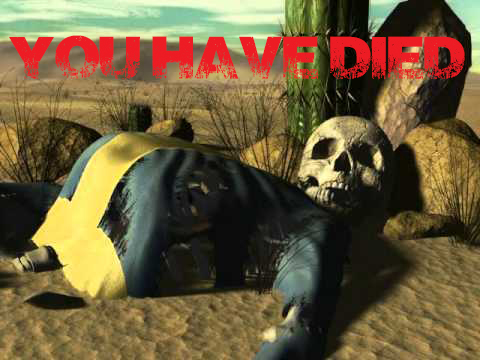
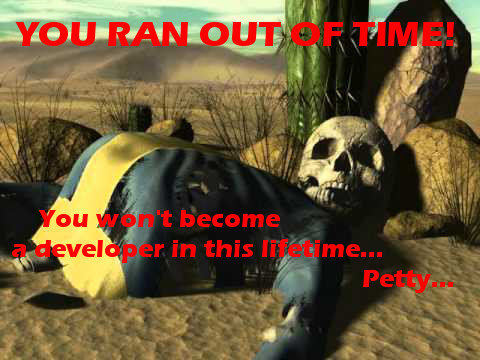
added new pictures, fixed bugs on the map, added minor changes in the code

Changed region(s): [[0.0, 0.0611, 0.9688, 0.2444], [0.0312, 0.5806, 0.9375, 0.825]]

diff --git a/TeamworkTAMBA/CombatForm.cs b/TeamworkTAMBA/CombatForm.cs
@@ -43,12 +43,12 @@ namespace TeamworkTAMBA
 
             labelPlayersTime.Text = "Time: " + player.Health;
             labelPlayerDmg.Text = "Damage: " + "1-" + player.AttackPower;
-            labelPlayerKnowlage.Text = "Knowlage: " + player.Knowledge;
-            labelEnemyHealth.Text = "Health: " + enemy.Health;
+            labelPlayerKnowlage.Text = "Knowledge: " + player.Knowledge;
+            labelEnemyHealth.Text = "Strength: " + enemy.Health;
             labelEnemyDmg.Text = "Damage: " + "1-" + enemy.AttackPower;
 
             playerMoneyLabel.Text = "Money: " + player.Money;
-            killsLabel.Text = "Kills: " + player.KillsCounter;
+            killsLabel.Text = "Solved: " + player.KillsCounter;
 
             //Disables the weapon checkboxes if still not taken from the teacher
             foreach (var weapon in this.player.Weapons)
@@ -85,7 +85,7 @@ namespace TeamworkTAMBA
             }
             else
             {
-                playerTextBox.Text = "You can not fight the Homeworks without programing skills!";
+                playerTextBox.Text = "You can not solve the Homeworks without programming skills! Learn some! Go and find a teacher!";
                 CSharpCheckBox.Checked = true;
             }
         }
@@ -96,13 +96,13 @@ namespace TeamworkTAMBA
             {
                 player.AttackPower += 10;
                 knowlageUsage += 10;
-                labelPlayerDmg.Text = "Damage: " + "1-" + player.AttackPower;
+                labelPlayerDmg.Text = "Part solved for: " + "1-" + player.AttackPower;
             }
             else
             {
                 player.AttackPower -= 10;
                 knowlageUsage -= 10;
-                labelPlayerDmg.Text = "Damage: " + "1-" + player.AttackPower;
+                labelPlayerDmg.Text = "Part solved for: " + "1-" + player.AttackPower;
             }
         }
 
@@ -113,13 +113,13 @@ namespace TeamworkTAMBA
             {
                 player.AttackPower += 10;
                 knowlageUsage += 1;
-                labelPlayerDmg.Text = "Damage: " + "1-" + player.AttackPower;
+                labelPlayerDmg.Text = "Part solved for: " + "1-" + player.AttackPower;
             }
             else
             {
                 player.AttackPower -= 10;
                 knowlageUsage -= 1;
-                labelPlayerDmg.Text = "Damage: " + "1-" + player.AttackPower;
+                labelPlayerDmg.Text = "Part solved for: " + "1-" + player.AttackPower;
             }
         }
 
@@ -129,13 +129,13 @@ namespace TeamworkTAMBA
             {
                 player.AttackPower += 10;
                 knowlageUsage += 1;
-                labelPlayerDmg.Text = "Damage: " + "1-" + player.AttackPower;
+                labelPlayerDmg.Text = "Part solved for: " + "1-" + player.AttackPower;
             }
             else
             {
                 player.AttackPower -= 10;
                 knowlageUsage -= 1;
-                labelPlayerDmg.Text = "Damage: " + "1-" + player.AttackPower;
+                labelPlayerDmg.Text = "Part solved for: " + "1-" + player.AttackPower;
             }
         }
 
@@ -145,13 +145,13 @@ namespace TeamworkTAMBA
             {
                 player.AttackPower += 10;
                 knowlageUsage += 1;
-                labelPlayerDmg.Text = "Damage: " + "1-" + player.AttackPower;
+                labelPlayerDmg.Text = "Part solved for: " + "1-" + player.AttackPower;
             }
             else
             {
                 player.AttackPower -= 10;
                 knowlageUsage -= 1;
-                labelPlayerDmg.Text = "Damage: " + "1-" + player.AttackPower;
+                labelPlayerDmg.Text = "Part solved for: " + "1-" + player.AttackPower;
             }
         }
 
@@ -161,13 +161,13 @@ namespace TeamworkTAMBA
             {
                 player.AttackPower += 10;
                 knowlageUsage += 1;
-                labelPlayerDmg.Text = "Damage: " + "1-" + player.AttackPower;
+                labelPlayerDmg.Text = "Part solved for: " + "1-" + player.AttackPower;
             }
             else
             {
                 player.AttackPower -= 10;
                 knowlageUsage -= 1;
-                labelPlayerDmg.Text = "Damage: " + "1-" + player.AttackPower;
+                labelPlayerDmg.Text = "Part solved for: " + "1-" + player.AttackPower;
             }
         }
 
@@ -196,7 +196,7 @@ namespace TeamworkTAMBA
                     phpCheckBox.Checked = true;
                 }
 
-                labelPlayerDmg.Text = "Damage: " + "1-" + player.AttackPower;
+                labelPlayerDmg.Text = "Part solved for: " + "1-" + player.AttackPower;
             }
             else
             {
@@ -205,7 +205,7 @@ namespace TeamworkTAMBA
                 cssCheckBox.Checked = false;
                 javascriptCheckBox.Checked = false;
                 phpCheckBox.Checked = false;
-                labelPlayerDmg.Text = "Damage: " + "1-" + player.AttackPower;
+                labelPlayerDmg.Text = "Part solved for: " + "1-" + player.AttackPower;
             }
         }
 
@@ -222,7 +222,7 @@ namespace TeamworkTAMBA
             {
                 if (knowlageUsage > player.Knowledge)
                 {
-                    playerTextBox.Text = "Not enought Knowledge";
+                    playerTextBox.Text = "You don't have enough knowledge!";
                     checkAllBox.Checked = false;
                     javaCheckBox.Checked = false;
                     htmlCheckBox.Checked = false;
@@ -240,8 +240,8 @@ namespace TeamworkTAMBA
                 {
                     Combat();
                     labelPlayersTime.Text = "Time: " + player.Health;
-                    labelEnemyHealth.Text = "Health: " + enemy.Health;
-                    labelPlayerKnowlage.Text = "Knowlage: " + player.Knowledge;
+                    labelEnemyHealth.Text = "Strength: " + enemy.Health;
+                    labelPlayerKnowlage.Text = "Knowledge: " + player.Knowledge;
                 }
             }
 
@@ -277,16 +277,16 @@ namespace TeamworkTAMBA
             if (enemy.Health > 0)
             {
                 enemyHealthProgressBar.Value = newEnemyHealth;
-                playerTextBox.Text = "You have hit the Homework for " + playerRandomDamage + "\nThe Homework now have " + enemy.Health + " health.";
+                playerTextBox.Text = "You have solved a part of the Homework for " + playerRandomDamage + "\nThe Homework now has " + enemy.Health + " strength.";
             }
             else
             {
                 enemyHealthProgressBar.Value = enemyHealthProgressBar.Minimum;
                 isEnemyAlive = false;
-                playerTextBox.Text = "You have hit the Homework for " + playerRandomDamage + "\nThe Homework is dead!";
+                playerTextBox.Text = "You have solved a part of the Homework for " + playerRandomDamage + "\nThe Homework is solved!";
                 player.Health = newPlayerHealth;
                 player.KillsCounter++;
-                killsLabel.Text = "Kills: " + player.KillsCounter;
+                killsLabel.Text = "Solved: " + player.KillsCounter;
                 player.Money += 10;
                 playerMoneyLabel.Text = "Money: " + player.Money;
 
@@ -296,15 +296,15 @@ namespace TeamworkTAMBA
             if (player.Health > 0)
             {
                 playerHealthProgressBar.Value = newPlayerHealth;
-                EnemyTextBox.Text = "But the Homework hit you back for " + enemyRandomDamage +
-                    "\nYou have now " + player.Health + " health";
+                EnemyTextBox.Text = "But that took you some time - exactly : " + enemyRandomDamage +
+                    "\nYou have now " + player.Health + " time left.";
             }
             else
             {
                 playerHealthProgressBar.Value = playerHealthProgressBar.Minimum;
                 isPlayerAlive = false;
-                EnemyTextBox.Text = "The Homework hit you back for " + enemyRandomDamage +
-                                    "\nYou were killed form a Homework.. You sux!";
+                EnemyTextBox.Text = "The Homework took from you " + enemyRandomDamage +
+                                    "\nThe Homework took all your health and you are DONE... You suck!!! You are no good for a developer!";
                 exit.Visible = true;
             }
         }

diff --git a/TeamworkTAMBA/DrawEngine.cs b/TeamworkTAMBA/DrawEngine.cs
@@ -11,26 +11,28 @@
     public class DrawEngine
     {
         private const string Player = "../../Graphics/player.png";
-        private const string Enemy = "../../Graphics/monster.jpg";
+        //private const string Enemy = "../../Graphics/monster.jpg";
         private const string Homework = "../../Graphics/homework.png";
-        private const string Exam = "../../Graphics/exam.jpg";
-        private const string Teamwork = "../../Graphics/teamwork.jpg";
-        private const string Didko = "../../Graphics/dido.jpg";
-        private const string Nakov = "../../Graphics/player.png"; //TO DO: have to be change
-        private const string Nasko = "../../Graphics/nasko.jpg";
-        private const string SuperVlado = "../../Graphics/superVlado.jpg";
-        private const string Tedi = "../../Graphics/tedi.jpg";
+        private const string Exam = "../../Graphics/exam.png";
+        private const string Teamwork = "../../Graphics/teamwork.png";
+        private const string Didko = "../../Graphics/dido.png";
+        private const string Nakov = "../../Graphics/nakov.png";
+        private const string Nasko = "../../Graphics/nasko.png";
+        private const string SuperVlado = "../../Graphics/superVlado.png";
+        private const string Tedi = "../../Graphics/tedi.png";
         private const string Vlado = "../../Graphics/vlado.png";
         private const string Wall = "../../Graphics/wall.jpg";
+        private const string Railing = "../../Graphics/railing.png";
         private const string Coffee = "../../Graphics/coffee.png";
         private const string Floor = "../../Graphics/floor.jpg";
+        private const string Gate = "../../Graphics/gate.png";
         private const string Desk = "../../Graphics/desk.png";
         private const string Air = "../../Graphics/air.png";
-        private const string Time = "../../Graphics/Time.jpg";
+        private const string Time = "../../Graphics/time.png";
 
 
         Image playerSpr, enemySpr, homeworkSpr, examSpr, teamworkSpr, didkoSpr, nakovSpr, naskoSpr, superVladoSpr, tediSpr,
-        vladoSpr, wallSpr, coffeeSpr, floorSpr, deskSpr, airSpr, timeSpr;
+        vladoSpr, wallSpr, railingSpr, coffeeSpr, floorSpr, gateSpr, deskSpr, airSpr, timeSpr;
 
 
         private Graphics device;
@@ -132,9 +134,13 @@
                     break;
                 case SpriteType.Wall: image = this.wallSpr;
                     break;
+                case SpriteType.Railing: image = this.railingSpr;
+                    break;
                 case SpriteType.Coffee: image = this.coffeeSpr;
                     break;
                 case SpriteType.Floor: image = this.floorSpr;
+                    break;
+                case SpriteType.Gate: image = this.gateSpr;
                     break;
                 case SpriteType.Desk: image = this.deskSpr;
                     break;
@@ -152,7 +158,7 @@
         public void LoadResources()
         {
             this.playerSpr = Image.FromFile(Player);
-            this.enemySpr = Image.FromFile(Enemy);
+            //this.enemySpr = Image.FromFile(Enemy);
             this.homeworkSpr = Image.FromFile(Homework);
             this.examSpr = Image.FromFile(Exam);
             this.teamworkSpr = Image.FromFile(Teamwork);
@@ -163,8 +169,10 @@
             this.tediSpr = Image.FromFile(Tedi);
             this.vladoSpr = Image.FromFile(Vlado);
             this.wallSpr = Image.FromFile(Wall);
+            this.railingSpr = Image.FromFile(Railing);
             this.coffeeSpr = Image.FromFile(Coffee);
             this.floorSpr = Image.FromFile(Floor);
+            this.gateSpr = Image.FromFile(Gate);
             this.deskSpr = Image.FromFile(Desk);
             this.airSpr = Image.FromFile(Air);
             this.timeSpr = Image.FromFile(Time);

diff --git a/TeamworkTAMBA/Map.cs b/TeamworkTAMBA/Map.cs
@@ -89,10 +89,10 @@
                                     item = new Wall(SpriteType.Wall, itemlocation, 0);
                                     break;
                                 case "r":
-                                    item = new Wall(SpriteType.Wall, itemlocation, 0);
+                                    item = new Wall(SpriteType.Railing, itemlocation, 0);
                                     break;
                                 case "g":
-                                    item = new Floor(SpriteType.Floor, itemlocation, 0);
+                                    item = new Gate(SpriteType.Gate, itemlocation, 0);
                                     break;
                                 case "d":
                                     item = new Desk(SpriteType.Desk, itemlocation, 0);
@@ -200,7 +200,7 @@
                                 //    item = new Exam(SpriteType.Exam, itemlocation, 3);
                                 //    break;
                                 case "N":
-                                    item = new Nakov(SpriteType.Player, itemlocation, 0);
+                                    item = new Nakov(SpriteType.Nakov, itemlocation, 0);
                                     break;
                                 case "A":
                                     item = new Nasko(SpriteType.Nasko, itemlocation, 0);

diff --git a/TeamworkTAMBA/Properties/Resources.Designer.cs b/TeamworkTAMBA/Properties/Resources.Designer.cs
@@ -1,7 +1,7 @@
 //------------------------------------------------------------------------------
 // <auto-generated>
 //     This code was generated by a tool.
-//     Runtime Version:4.0.30319.34014
+//     Runtime Version:4.0.30319.18444
 //
 //     Changes to this file may cause incorrect behavior and will be lost if
 //     the code is regenerated.
@@ -76,16 +76,6 @@ namespace TeamworkTAMBA.Properties {
         internal static System.Drawing.Bitmap DeadLabel {
             get {
                 object obj = ResourceManager.GetObject("DeadLabel", resourceCulture);
-                return ((System.Drawing.Bitmap)(obj));
-            }
-        }
-        
-        /// <summary>
-        ///   Looks up a localized resource of type System.Drawing.Bitmap.
-        /// </summary>
-        internal static System.Drawing.Bitmap monster {
-            get {
-                object obj = ResourceManager.GetObject("monster", resourceCulture);
                 return ((System.Drawing.Bitmap)(obj));
             }
         }

diff --git a/TeamworkTAMBA/GameEngine.cs b/TeamworkTAMBA/GameEngine.cs
@@ -152,7 +152,7 @@
                 player.Move(0, 0);
             }
 
-            if (mapItemType is Floor)
+            if (mapItemType is Floor || mapItemType is Gate)
             {
                 player.Move(playerNextMove.X, playerNextMove.Y);
             }
@@ -193,7 +193,6 @@
                 this.drawEngine.ChangeCharactersAndItemsSprites(this.CharatersAndItems[this.currentSprite]);
             }
 
-            // TO DO: same thing for friends
             if (charactesAndItems is Enemy)
             {
                 combatForm = new CombatForm(player, charactesAndItems as Enemy, drawEngine);

diff --git a/TeamworkTAMBA/GameForm.Designer.cs b/TeamworkTAMBA/GameForm.Designer.cs
@@ -27,7 +27,7 @@
             this.Margin = new System.Windows.Forms.Padding(2);
             this.Name = "GameForm";
             this.StartPosition = System.Windows.Forms.FormStartPosition.CenterScreen;
-            this.Text = "Game";
+            this.Text = "Time Saviour";
             this.FormClosed += new System.Windows.Forms.FormClosedEventHandler(this.GameForm_FormClosed);
             this.KeyDown += new System.Windows.Forms.KeyEventHandler(this.Form1_KeyDown);
             this.ResumeLayout(false);

diff --git a/TeamworkTAMBA/SpriteType.cs b/TeamworkTAMBA/SpriteType.cs
@@ -15,8 +15,10 @@
         Tedi,
         Vlado,
         Wall,
+        Railing,
         Coffee,
         Floor,
+        Gate,
         Desk,
         Air,
         Time
